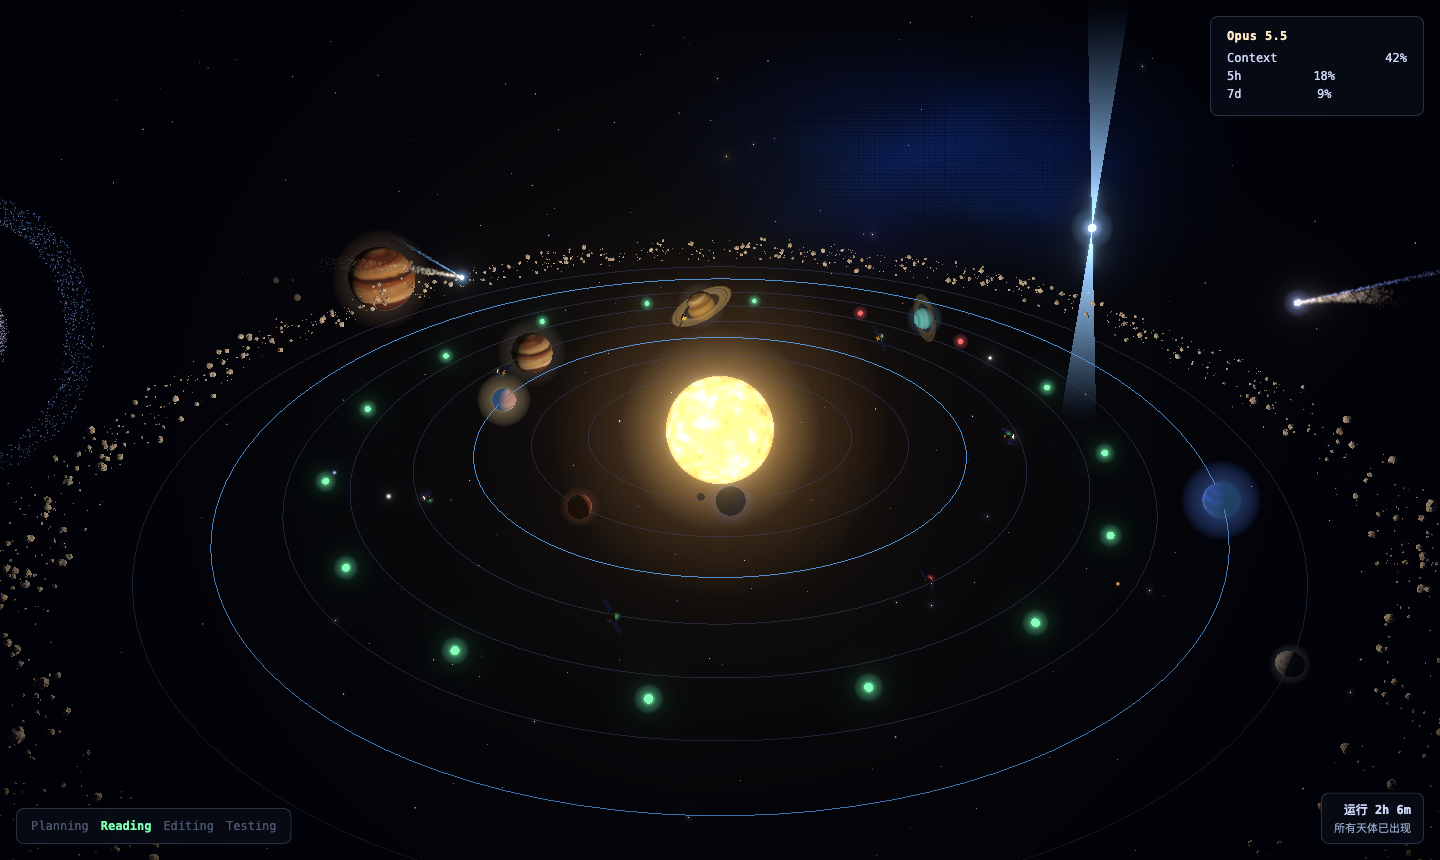
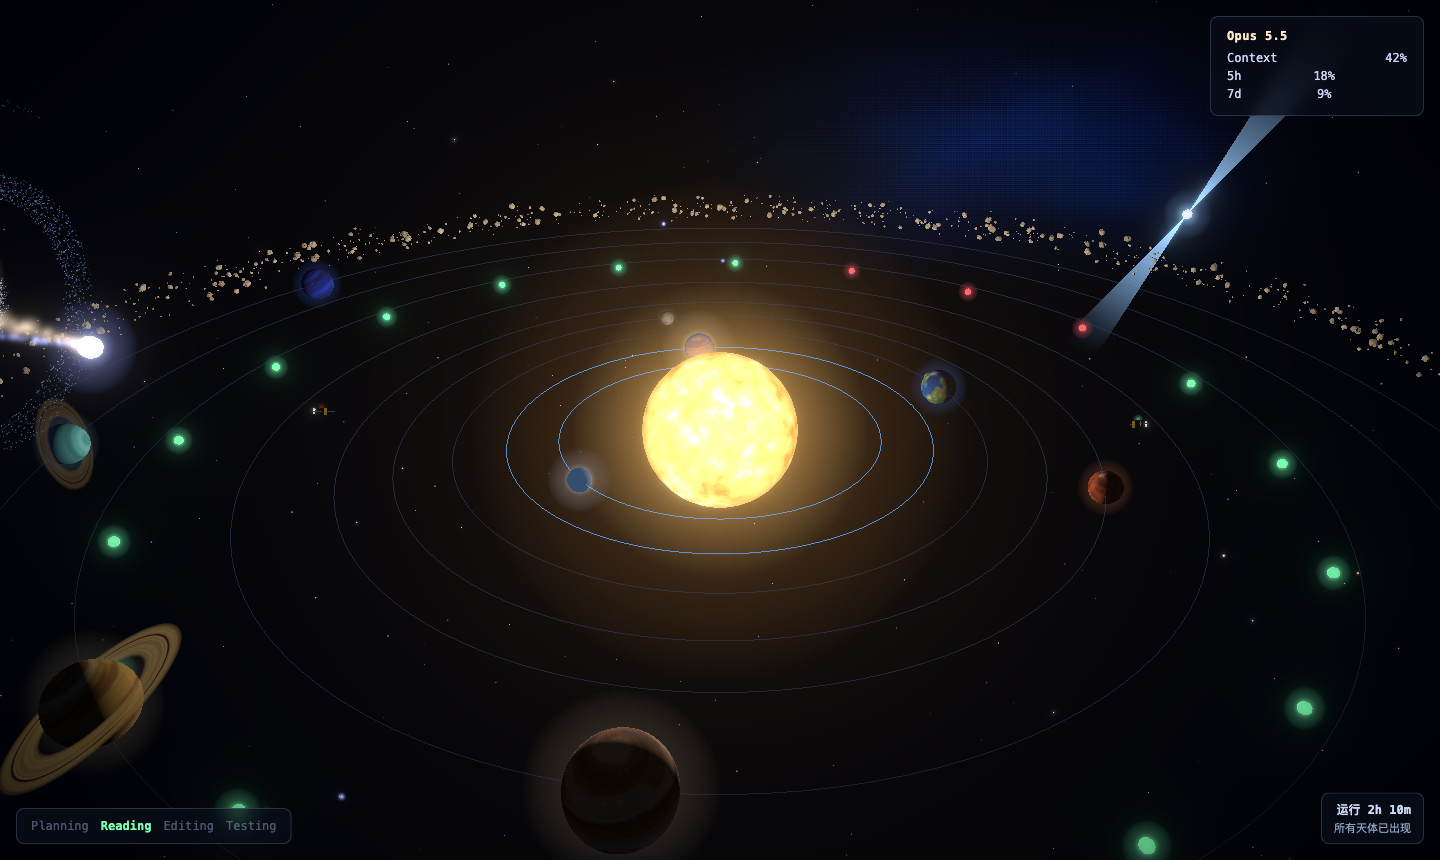
feat: add Mercury and lay the planets out in their real order
Orbits used to follow unlock order, so Venus sat outside Mars, the Moon
circled at the edge of the system and Mercury was missing entirely.
Each body now has its own orbit radius, in real order from the sun:
packed close for the rocky inner planets and opening up for the giants,
with room for Earth's companion moon and Saturn's rings, and kept
inside the asteroid belt.

- Add Mercury (cratered, warmer grey than the Moon), unlocking at 25 min
- Keep the Moon as its own body just outside Earth, a bit smaller
- Unlock order and times are unchanged
- Refresh both README screenshots and their captions

diff --git a/web/src/scene/textures.js b/web/src/scene/textures.js
@@ -134,6 +134,30 @@ function paintBlotches(ctx, width, height, rand, colors, count, minR, maxR, alph
 const W = 512;
 const H = 256;
 
+// Airless rocky body: mottled base, then craters with a dark floor and a light rim.
+function paintCratered(base, tones, rand, craters) {
+  const canvas = makeCanvas(W, H);
+  const ctx = canvas.getContext('2d');
+  ctx.fillStyle = base;
+  ctx.fillRect(0, 0, W, H);
+  paintBlotches(ctx, W, H, rand, tones, 160, 4, 30, 0.4);
+  for (let i = 0; i < craters; i += 1) {
+    const x = rand() * W;
+    const y = rand() * H;
+    const r = 1.5 + rand() * 7;
+    ctx.fillStyle = 'rgba(40,38,36,0.45)';
+    ctx.beginPath();
+    ctx.arc(x, y, r, 0, Math.PI * 2);
+    ctx.fill();
+    ctx.strokeStyle = 'rgba(220,215,208,0.35)';
+    ctx.lineWidth = 1;
+    ctx.beginPath();
+    ctx.arc(x - 0.5, y - 0.5, r, Math.PI * 0.9, Math.PI * 1.9);
+    ctx.stroke();
+  }
+  return toTexture(canvas);
+}
+
 const BUILDERS = {
   jupiter: () => {
     const canvas = makeCanvas(W, H);
@@ -224,33 +248,12 @@ const BUILDERS = {
     paintBands(ctx, W, H, ['#e8c98a', '#d9b06a', '#f2dcaa', '#caa062'], seededRandom(71), { turbulence: 0.05, streaks: 200 });
     return toTexture(canvas);
   },
-  moon: () => {
-    const canvas = makeCanvas(W, H);
-    const ctx = canvas.getContext('2d');
-    const rand = seededRandom(83);
-    ctx.fillStyle = '#8e8a86';
-    ctx.fillRect(0, 0, W, H);
-    paintBlotches(ctx, W, H, rand, ['#5e5b58', '#a9a5a0'], 160, 4, 30, 0.4);
-    // Craters: dark floor with a light rim.
-    for (let i = 0; i < 90; i += 1) {
-      const x = rand() * W;
-      const y = rand() * H;
-      const r = 1.5 + rand() * 7;
-      ctx.fillStyle = 'rgba(40,38,36,0.45)';
-      ctx.beginPath();
-      ctx.arc(x, y, r, 0, Math.PI * 2);
-      ctx.fill();
-      ctx.strokeStyle = 'rgba(220,215,208,0.35)';
-      ctx.lineWidth = 1;
-      ctx.beginPath();
-      ctx.arc(x - 0.5, y - 0.5, r, Math.PI * 0.9, Math.PI * 1.9);
-      ctx.stroke();
-    }
-    return toTexture(canvas);
-  },
+  moon: () => paintCratered('#8e8a86', ['#5e5b58', '#a9a5a0'], seededRandom(83), 90),
+  // Mercury: darker, warmer grey than the Moon and more heavily cratered.
+  mercury: () => paintCratered('#857a70', ['#5a524b', '#a39688'], seededRandom(89), 130),
 };
 
-export const PLANET_KINDS = ['earth', 'mars', 'jupiter', 'saturn', 'neptune', 'venus', 'uranus', 'moon'];
+export const PLANET_KINDS = ['earth', 'mars', 'jupiter', 'saturn', 'neptune', 'venus', 'uranus', 'moon', 'mercury'];
 
 export function planetTexture(kind) {
   return cached(`planet:${kind}`, BUILDERS[kind] ?? BUILDERS.moon);

diff --git a/web/src/scene/PlanetLayer.jsx b/web/src/scene/PlanetLayer.jsx
@@ -13,20 +13,20 @@ const BOOST_COLOR = new THREE.Color('#5fb0ff');
 const CALM_SPEED = 0.12;
 const BOOST_SPEED = 0.5;
 
+// `orbit` is the track radius, in real order from the sun: packed close for the
+// rocky inner planets and opening up for the giants, with room for Earth's
+// companion moon and Saturn's rings, and staying inside the asteroid belt.
 const PLANET_SPECS = {
-  earth: { size: 0.3, atmosphere: '#7fb8ff', tilt: 0.41, moon: true },
-  mars: { size: 0.24, atmosphere: '#ff9a6b', tilt: 0.44 },
-  jupiter: { size: 0.55, atmosphere: '#e8c9a0', tilt: 0.05 },
-  saturn: { size: 0.45, atmosphere: '#f0dcae', tilt: 0.47, rings: true },
-  neptune: { size: 0.34, atmosphere: '#6f9bff', tilt: 0.49 },
-  venus: { size: 0.28, atmosphere: '#ffe0a0', tilt: 0.05 },
-  uranus: { size: 0.32, atmosphere: '#b8f0f2', tilt: 1.7, rings: 'faint' },
-  moon: { size: 0.2, atmosphere: '#cccccc', tilt: 0.1 },
+  mercury: { size: 0.18, atmosphere: '#c8b8a8', tilt: 0.03, orbit: 2.55 },
+  venus: { size: 0.28, atmosphere: '#ffe0a0', tilt: 0.05, orbit: 3.35 },
+  earth: { size: 0.3, atmosphere: '#7fb8ff', tilt: 0.41, moon: true, orbit: 4.15 },
+  moon: { size: 0.14, atmosphere: '#cccccc', tilt: 0.1, orbit: 5.0 },
+  mars: { size: 0.24, atmosphere: '#ff9a6b', tilt: 0.44, orbit: 5.8 },
+  jupiter: { size: 0.55, atmosphere: '#e8c9a0', tilt: 0.05, orbit: 7.1 },
+  saturn: { size: 0.45, atmosphere: '#f0dcae', tilt: 0.47, rings: true, orbit: 8.8 },
+  uranus: { size: 0.32, atmosphere: '#b8f0f2', tilt: 1.7, rings: 'faint', orbit: 10.2 },
+  neptune: { size: 0.34, atmosphere: '#6f9bff', tilt: 0.49, orbit: 11.5 },
 };
-
-function orbitRadius(index) {
-  return 3 + index * 1.25;
-}
 
 function OrbitTrack({ radius, boost, throttle }) {
   const materialRef = useRef(null);
@@ -102,7 +102,7 @@ function Planet({ index, boosted, running }) {
   const materialRef = useRef(null);
   const { kind } = PLANET_UNLOCKS[index];
   const spec = PLANET_SPECS[kind];
-  const radius = orbitRadius(index);
+  const radius = spec.orbit;
   const texture = useMemo(() => planetTexture(kind), [kind]);
   const glow = useMemo(() => glowTexture(), []);
   // Orbital angle and spin accumulate so the system can glide to a halt when

diff --git a/web/test/planets.test.js b/web/test/planets.test.js
@@ -4,12 +4,12 @@ import { PLANET_UNLOCKS, unlockedPlanetCount, boostedPlanets } from '../src/stat
 const MIN = 60 * 1000;
 
 describe('planet unlocks', () => {
-  it('lists the eight planets in unlock order, starting with one already there', () => {
-    expect(PLANET_UNLOCKS).toHaveLength(8);
+  it('lists the nine bodies in unlock order, starting with one already there', () => {
+    expect(PLANET_UNLOCKS).toHaveLength(9);
     const minutes = PLANET_UNLOCKS.map((p) => p.minutes);
     expect(minutes).toEqual([...minutes].sort((a, b) => a - b));
     expect(minutes[0]).toBe(0);
-    expect(new Set(PLANET_UNLOCKS.map((p) => p.kind)).size).toBe(8);
+    expect(new Set(PLANET_UNLOCKS.map((p) => p.kind)).size).toBe(9);
   });
 
   it('shows the first planet from the very start', () => {
@@ -22,10 +22,10 @@ describe('planet unlocks', () => {
     expect(unlockedPlanetCount(second.minutes * MIN)).toBe(2);
   });
 
-  it('lights all eight once the last threshold passes', () => {
+  it('lights all nine once the last threshold passes', () => {
     const last = PLANET_UNLOCKS[PLANET_UNLOCKS.length - 1];
-    expect(unlockedPlanetCount(last.minutes * MIN)).toBe(8);
-    expect(unlockedPlanetCount(last.minutes * MIN * 10)).toBe(8);
+    expect(unlockedPlanetCount(last.minutes * MIN)).toBe(9);
+    expect(unlockedPlanetCount(last.minutes * MIN * 10)).toBe(9);
   });
 });
 

diff --git a/web/src/state/planets.js b/web/src/state/planets.js
@@ -1,6 +1,7 @@
 // The solar system lights up one planet at a time as Claude keeps working this
 // session; once lit a planet stays. The first is there from the start so a
-// subagent always has a planet to boost.
+// subagent always has a planet to boost. Unlock order is independent of where
+// a body orbits: the tracks follow the real order from the sun.
 export const PLANET_UNLOCKS = [
   { kind: 'earth', minutes: 0 },
   { kind: 'mars', minutes: 2 },
@@ -10,6 +11,7 @@ export const PLANET_UNLOCKS = [
   { kind: 'uranus', minutes: 12 },
   { kind: 'neptune', minutes: 16 },
   { kind: 'moon', minutes: 20 },
+  { kind: 'mercury', minutes: 25 },
 ];
 
 const MINUTE_MS = 60 * 1000;

diff --git a/README.md b/README.md
@@ -23,7 +23,7 @@ The longer it works, the more of the universe opens up: from Earth to a black ho
 
 ---
 
-![Orbit two hours into a session: all eight planets lit, a black hole and a supernova remnant beyond the asteroid belt, a comet swinging past the sun, and the green/red test ring](docs/images/orbit-dashboard.png)
+![Orbit two hours into a session: the whole solar system lit from Mercury to Neptune, a black hole and a supernova remnant beyond the asteroid belt, a comet streaking in, and the green/red test ring](docs/images/orbit-dashboard.png)
 
 Orbit wraps the `claude` CLI and turns the session into a real-time 3D
 deep-space dashboard in your browser. You can tell at a glance what Claude is
@@ -97,6 +97,7 @@ background subagent spends working does.
 | 12 min | 🩵 Uranus |
 | 16 min | 🔵 Neptune |
 | 20 min | 🌙 The Moon |
+| 25 min | 🪨 Mercury |
 
 > [!NOTE]
 > **Subagents boost planets.** Each running subagent (`Agent` / `Task`) takes
@@ -111,7 +112,7 @@ When a new wonder unlocks, a toast announces it. Distant wonders are spread
 around the sky, so the slowly turning camera brings them into view one at a
 time.
 
-![A pulsar sweeping its beams, the distant gas giant with its moons, and the edge of the spiral galaxy](docs/images/orbit-wonders.png)
+![A pulsar sweeping its beams, a comet at the edge of the spiral galaxy, and Saturn and Uranus swinging past the camera](docs/images/orbit-wonders.png)
 
 | Working time | Wonder | What appears |
 |---:|---|---|
